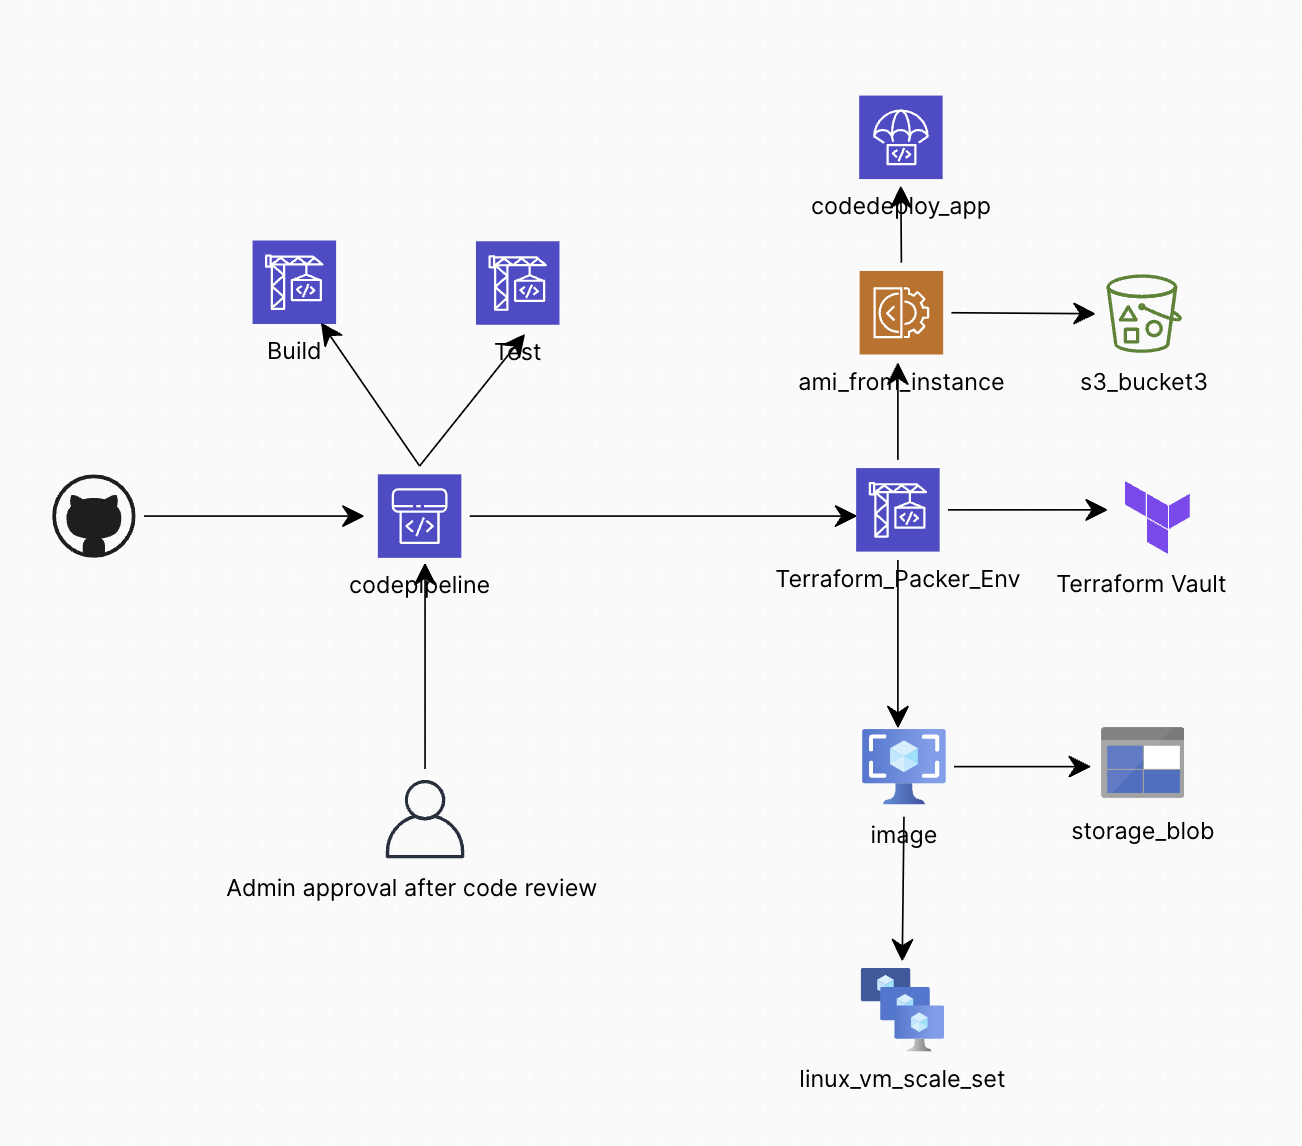
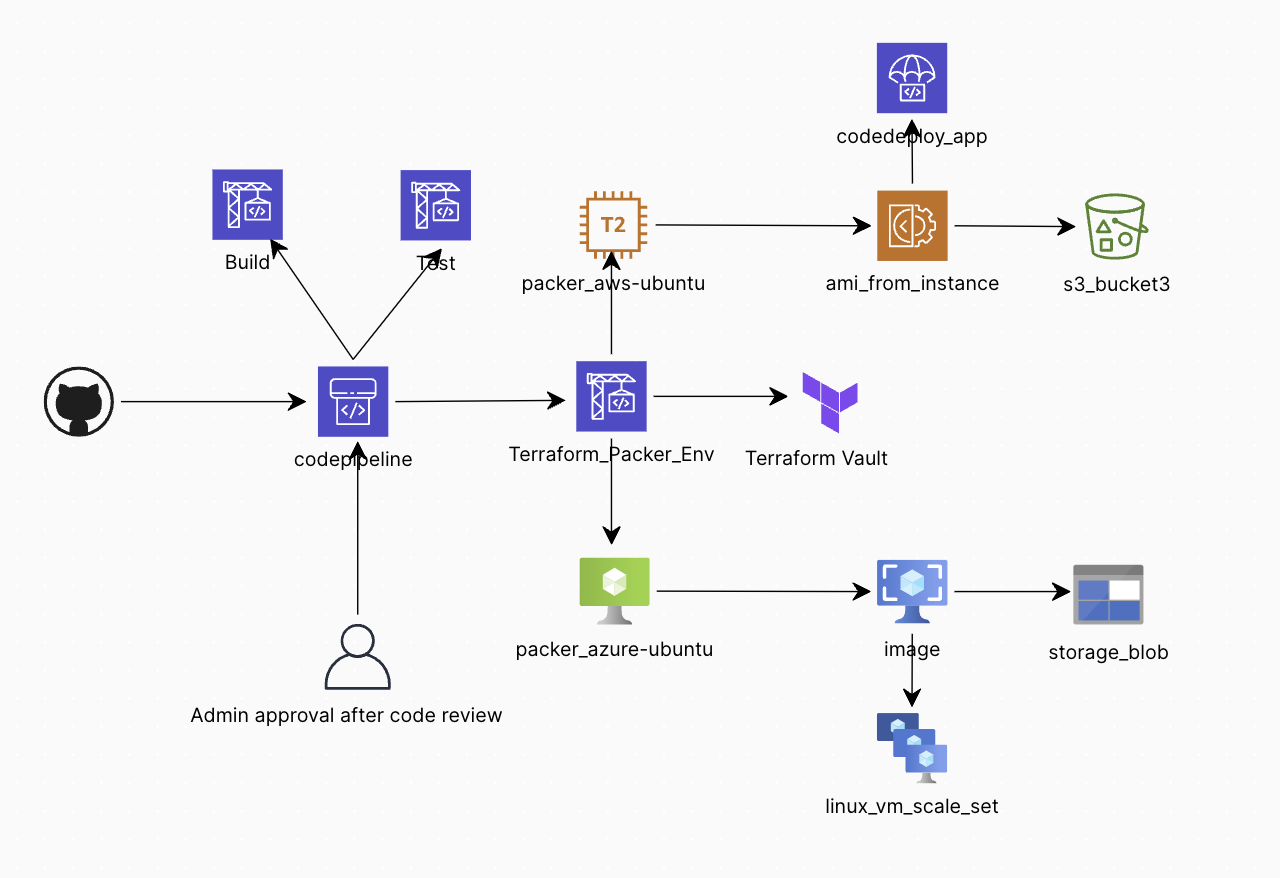
Finished Packer Setup for Developer CICD
Updated Readme

diff --git a/packer_config/README.md b/packer_config/README.md
@@ -57,11 +57,9 @@ which packer
 /usr/local/bin/packer
 ```
 
-
-
 ### Environment Variables
 
-Since Packer will deploy resources in AWS , and Azure to build the images , and store them in S3 or Blob stores. We need to configure approriate environment variables for it do so. 
+Since Packer will deploy resources in AWS , and Azure to build the images , and store them in S3 or Blob stores. We need to configure approriate environment variables for it do so.
 
 Points where this can be configured : AWS Project Build ENV variables. Since technically this machine, will be our cloud packer env.
 
@@ -81,8 +79,6 @@ AWS_ACCESS_KEY_ID
 AWS_SECRET_ACCESS_KEY
 ```
 
-
-
 #### How to Deploy Packer
 
 1. Create an AWS Instance , and install packer on it. (Use the above ubuntu installation steps)
@@ -92,16 +88,14 @@ AWS_SECRET_ACCESS_KEY
 
 ### Webapp Setup
 
-- Create a ```/assests/setup-web.sh``` file , in the main project repo. And configure it to start the application.
+- Create a ``/assests/setup-web.sh`` file , in the main project repo. And configure it to start the application.
 
-  ```bash 
+  ```bash
   #!/usr/bin/env sh
-  
+
   cp /tmp/assets/webapp /usr/local/bin/
   chmod +x /usr/local/bin/*
   cp /tmp/assets/webapp.service /lib/systemd/system/webapp.service
   service webapp start			## Can be any sorts of commad , start node, .NET
-  systemctl enable webapp					
+  systemctl enable webapp				
   ```
-
-- 

diff --git a/README.md b/README.md
@@ -18,6 +18,7 @@ The solution has been optimized for Operational Excellence , Security , Reliabil
 ├── iac 									# Terraform Config modules
 │	├── aws									# AWS Config Modules
 │	├── azure								# Azure Config Modules
+├── packer_config							# Packer Provisoner code , to create Images.
 ├── integration_tests						# Integration Testing with GO
 ├── database.sql 							# Potential Schema Design
 └── README.md
